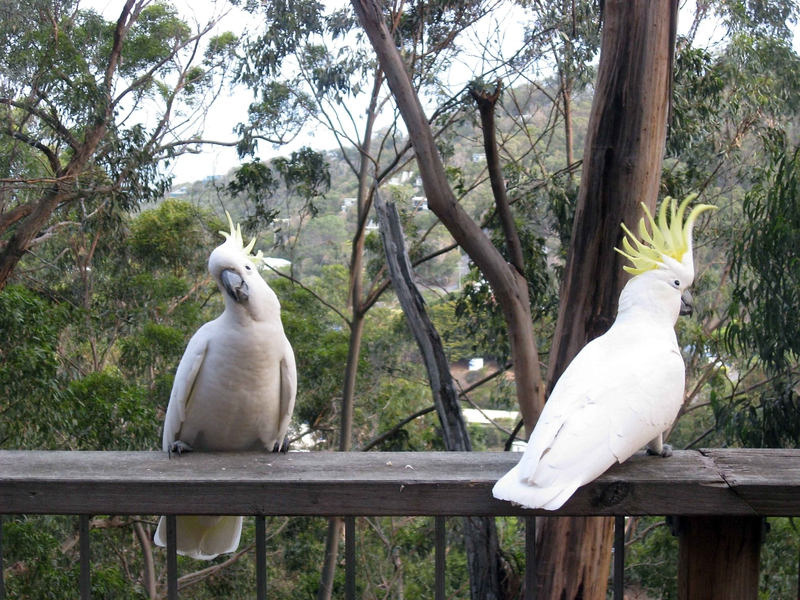
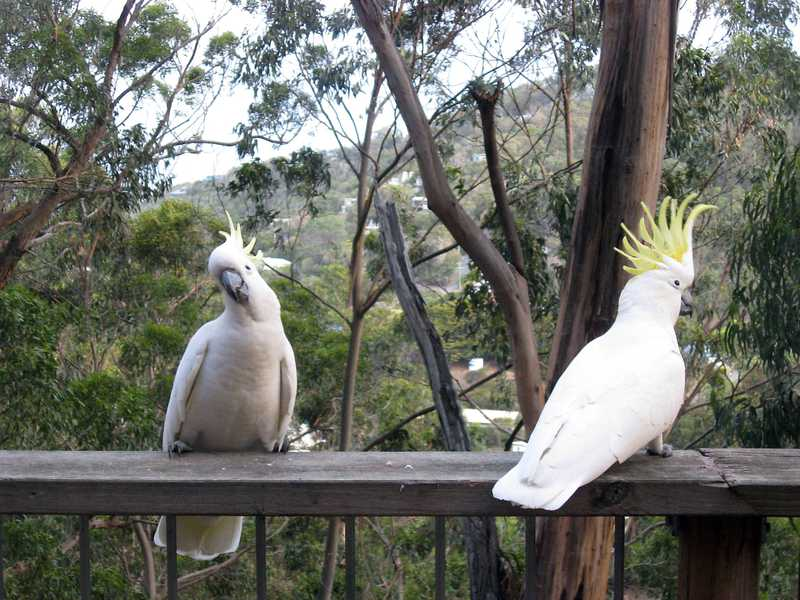
Lowered image quality

diff --git a/Gruntfile.js b/Gruntfile.js
@@ -14,7 +14,8 @@ module.exports = function(grunt) {
                 options: {
                     engine: 'im',
                     sizes: [{
-                        width: 800
+                        width: 800,
+                        quality: 50
                     }]
                 },
 
